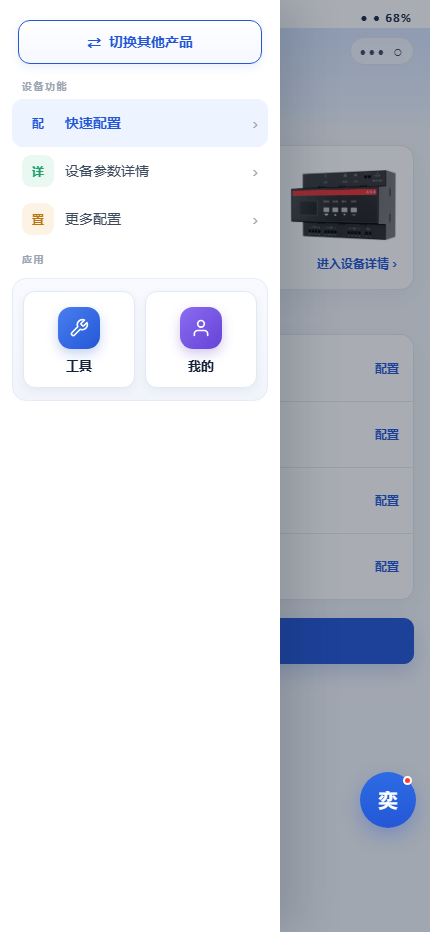
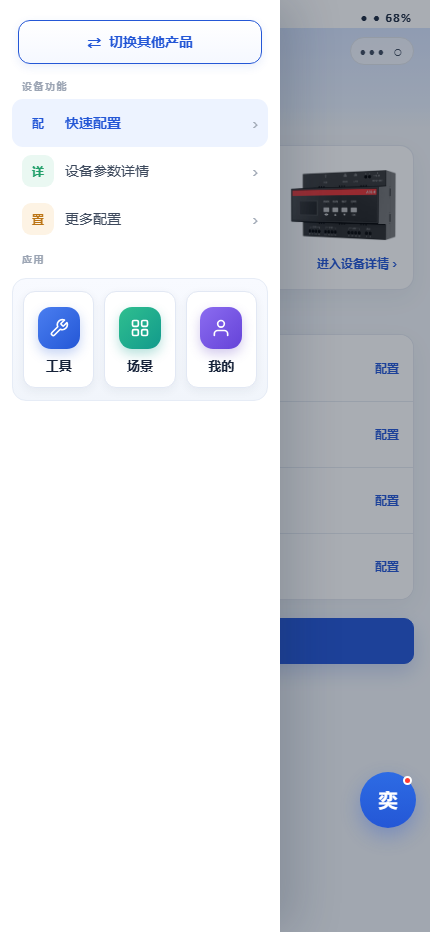
所有产品工作台侧边栏应用入口区增加场景（工具/场景/我的三格，绿色网格SVG图标）：workbench/e50双套侧边栏同步，side-app-entry布局改三列

Changed region(s): [[0.2721, 0.3112, 0.5744, 0.4045], [0.0605, 0.3112, 0.2419, 0.4045]]

diff --git a/assets/app/app.css b/assets/app/app.css
@@ -699,11 +699,12 @@ a { color: inherit; text-decoration: none; }
 /* 侧边菜单（白底 + 切换产品按钮） */
 .side-menu-body { flex: 1 1 auto; display: flex; flex-direction: column; min-height: 0; max-height: 100%; overflow-y: auto; padding-top: max(18px, env(safe-area-inset-top)); scrollbar-width: none; }
 .side-menu-body::-webkit-scrollbar { display: none; }
-.side-app-entry { display: grid; grid-template-columns: 1fr 1fr; gap: 10px; margin: 6px 12px max(12px, env(safe-area-inset-bottom)); padding: 12px 10px; border: 1px solid #e6ecf6; border-radius: 14px; background: linear-gradient(180deg, #f8faff, #f1f5fb); }
+.side-app-entry { display: grid; grid-template-columns: repeat(3, 1fr); gap: 10px; margin: 6px 12px max(12px, env(safe-area-inset-bottom)); padding: 12px 10px; border: 1px solid #e6ecf6; border-radius: 14px; background: linear-gradient(180deg, #f8faff, #f1f5fb); }
 .side-app-btn { display: grid; justify-items: center; gap: 9px; padding: 15px 8px 13px; background: #fff; border: 1px solid #e2e8f4; border-radius: 12px; box-shadow: 0 3px 10px rgba(30,45,68,.06); transition: transform .16s ease, box-shadow .16s ease; }
 .side-app-btn:active { transform: scale(.95); box-shadow: 0 2px 6px rgba(30,45,68,.08); }
 .side-app-icon { width: 42px; height: 42px; display: grid; place-items: center; border-radius: 13px; background: linear-gradient(135deg, #4a7ef0, #2457d6); color: #fff; box-shadow: 0 5px 12px rgba(36,87,214,.26); }
 .side-app-btn.mine .side-app-icon { background: linear-gradient(135deg, #8b6cf0, #6543d8); box-shadow: 0 5px 12px rgba(109,79,196,.3); }
+.side-app-btn.scene .side-app-icon { background: linear-gradient(135deg, #2fbf8f, #129a8c); box-shadow: 0 5px 12px rgba(18,154,140,.3); }
 .side-app-icon svg { width: 20px; height: 20px; }
 .side-app-label { font-size: 13px; font-weight: 700; }
 .menu-switch-wrap { padding: 2px 18px 10px; }

diff --git a/assets/app/e50.js b/assets/app/e50.js
@@ -308,6 +308,7 @@
       '<div class="side-nav-label">应用</div>' +
       '<div class="side-app-entry">' +
       '<a class="side-app-btn" href="tab-tools.html"><span class="side-app-icon"><svg viewBox="0 0 24 24" fill="none" stroke="currentColor" stroke-width="2" stroke-linecap="round" stroke-linejoin="round"><path d="M14.7 6.3a1 1 0 0 0 0 1.4l1.6 1.6a1 1 0 0 0 1.4 0l3.77-3.77a6 6 0 0 1-7.94 7.94l-6.91 6.91a2.12 2.12 0 0 1-3-3l6.91-6.91a6 6 0 0 1 7.94-7.94l-3.76 3.76z"/></svg></span><span class="side-app-label">工具</span></a>' +
+      '<a class="side-app-btn scene" href="tab-scene.html"><span class="side-app-icon"><svg viewBox="0 0 24 24" fill="none" stroke="currentColor" stroke-width="2" stroke-linecap="round" stroke-linejoin="round"><rect x="3" y="3" width="7" height="7" rx="1.5"/><rect x="14" y="3" width="7" height="7" rx="1.5"/><rect x="3" y="14" width="7" height="7" rx="1.5"/><rect x="14" y="14" width="7" height="7" rx="1.5"/></svg></span><span class="side-app-label">场景</span></a>' +
       '<a class="side-app-btn mine" href="tab-mine.html"><span class="side-app-icon"><svg viewBox="0 0 24 24" fill="none" stroke="currentColor" stroke-width="2" stroke-linecap="round" stroke-linejoin="round"><path d="M20 21v-2a4 4 0 0 0-4-4H8a4 4 0 0 0-4 4v2"/><circle cx="12" cy="7" r="4"/></svg></span><span class="side-app-label">我的</span></a>' +
       '</div></div>';
     var capture = host.querySelector('[data-menu="capture"]');

diff --git a/assets/app/workbench.js b/assets/app/workbench.js
@@ -75,6 +75,7 @@
       '<div class="side-nav-label">应用</div>' +
       '<div class="side-app-entry">' +
       '<a class="side-app-btn" href="tab-tools.html"><span class="side-app-icon"><svg viewBox="0 0 24 24" fill="none" stroke="currentColor" stroke-width="2" stroke-linecap="round" stroke-linejoin="round"><path d="M14.7 6.3a1 1 0 0 0 0 1.4l1.6 1.6a1 1 0 0 0 1.4 0l3.77-3.77a6 6 0 0 1-7.94 7.94l-6.91 6.91a2.12 2.12 0 0 1-3-3l6.91-6.91a6 6 0 0 1 7.94-7.94l-3.76 3.76z"/></svg></span><span class="side-app-label">工具</span></a>' +
+      '<a class="side-app-btn scene" href="tab-scene.html"><span class="side-app-icon"><svg viewBox="0 0 24 24" fill="none" stroke="currentColor" stroke-width="2" stroke-linecap="round" stroke-linejoin="round"><rect x="3" y="3" width="7" height="7" rx="1.5"/><rect x="14" y="3" width="7" height="7" rx="1.5"/><rect x="3" y="14" width="7" height="7" rx="1.5"/><rect x="14" y="14" width="7" height="7" rx="1.5"/></svg></span><span class="side-app-label">场景</span></a>' +
       '<a class="side-app-btn mine" href="tab-mine.html"><span class="side-app-icon"><svg viewBox="0 0 24 24" fill="none" stroke="currentColor" stroke-width="2" stroke-linecap="round" stroke-linejoin="round"><path d="M20 21v-2a4 4 0 0 0-4-4H8a4 4 0 0 0-4 4v2"/><circle cx="12" cy="7" r="4"/></svg></span><span class="side-app-label">我的</span></a>' +
       '</div></div>';
     var switchBtn = host.querySelector('.menu-switch-btn');

diff --git a/tests/browser-smoke.js b/tests/browser-smoke.js
@@ -98,7 +98,7 @@ async function assertNoHorizontalOverflow(page, route) {
     assert.match(await page.locator('.menu-switch-btn').textContent(), /切换其他产品/);
     assert.equal(await page.locator('.side-nav-item').count(), 3, 'sidebar must merge settings into quick config, device details and more config');
     assert.equal(await page.locator('.side-nav-item', { hasText: '更多配置' }).count(), 1, 'sidebar must merge remaining settings into 更多配置');
-    assert.equal(await page.locator('.side-app-btn').count(), 2, 'sidebar must expose prominent tools and mine entries');
+    assert.equal(await page.locator('.side-app-btn').count(), 3, 'sidebar must expose prominent tools, scene and mine entries');
     assert.equal(await page.getByText('断开蓝牙连接').count(), 0, 'non-E50 sidebar must not keep the Bluetooth disconnect');
     await page.locator('#side-menu-overlay').click();
     await page.locator('.hero-disconnect').click();

diff --git a/docs/飞奕网关调试小程序功能说明书.md b/docs/飞奕网关调试小程序功能说明书.md
@@ -59,7 +59,7 @@ flowchart TD
 | AI 智能助理 | 全局悬浮球（「奕」），可拖拽至屏幕左右边缘半隐藏停靠；点击打开对话窗，支持预设问答、文字输入、转人工客服 |
 | 连接状态持久化 | 蓝牙/4G 连接状态写入 sessionStorage，跨页面导航保持连接（设备 Tab 重进直达工作台），断开需二次确认 |
 | 调试页头部 | 统一 E50 风格：渐变蓝 hero 区 + 圆形浮动返回键 + 浮动半透明「☰ 更多功能」胶囊 + hero 内页面大标题（无传统白色顶栏） |
-| 侧边栏菜单 | 全高窄栏（280px/76%）：顶部「切换其他产品」按钮（蓝牙模式=断开当前连接，二次确认后返回搜索列表）→ 设备功能导航（图标+文字行）→ 应用入口卡（工具/我的，SVG 渐变图标，位于导航下方） |
+| 侧边栏菜单 | 全高窄栏（280px/76%）：顶部「切换其他产品」按钮（蓝牙模式=断开当前连接，二次确认后返回搜索列表）→ 设备功能导航（图标+文字行）→ 应用入口卡（工具/场景/我的，SVG 渐变图标，位于导航下方） |
 
 ## 三、设备调试（通用工作台）
 
